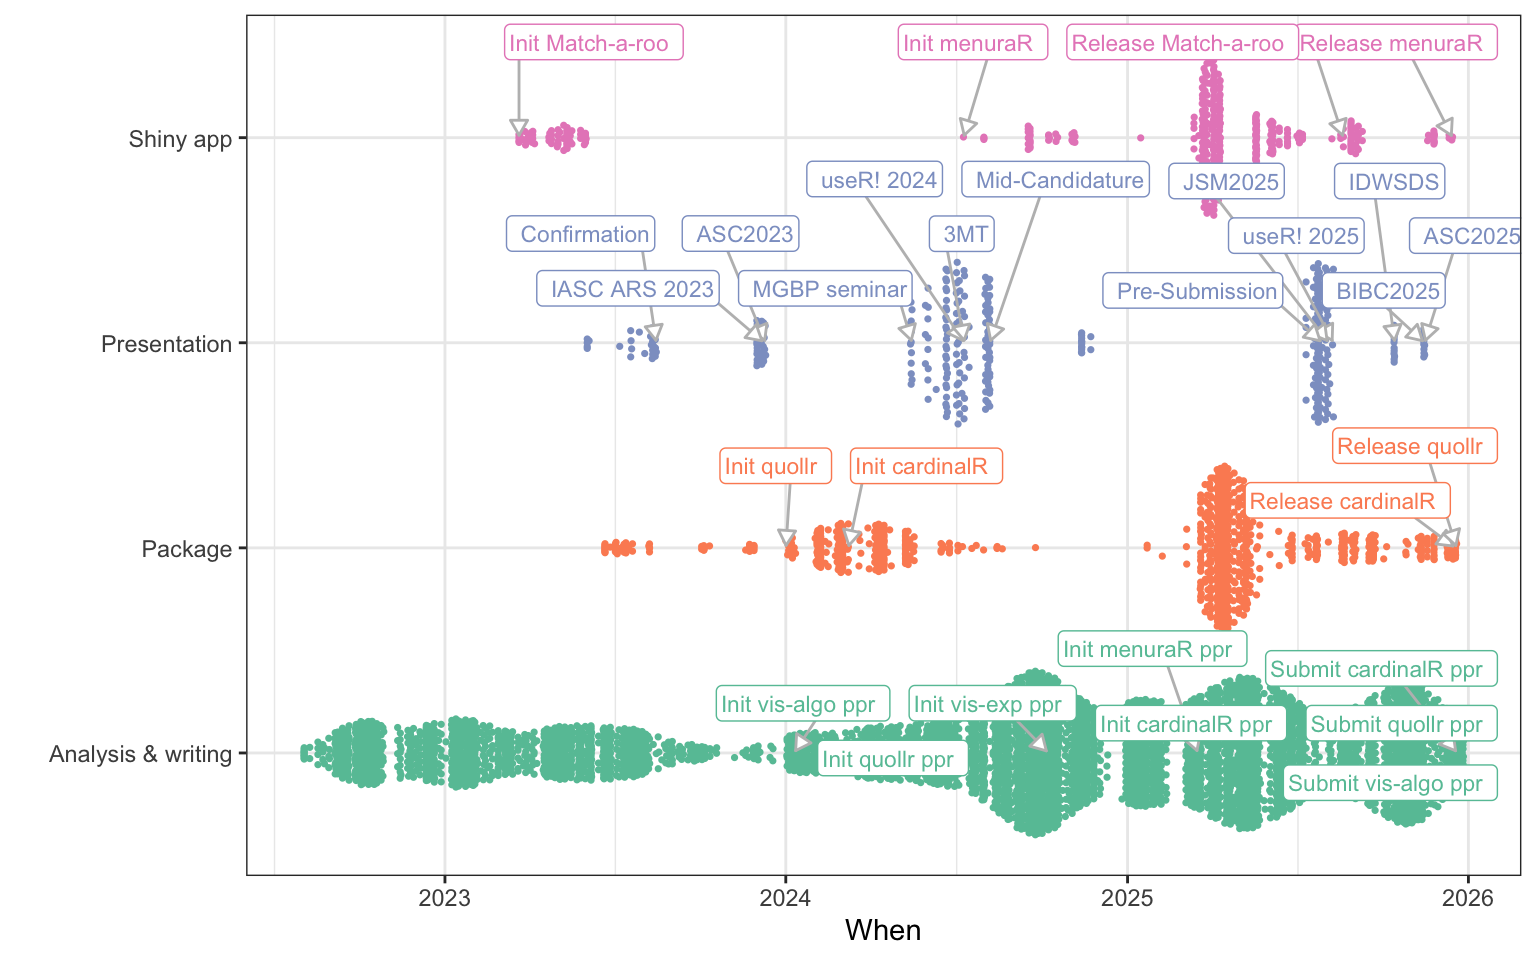
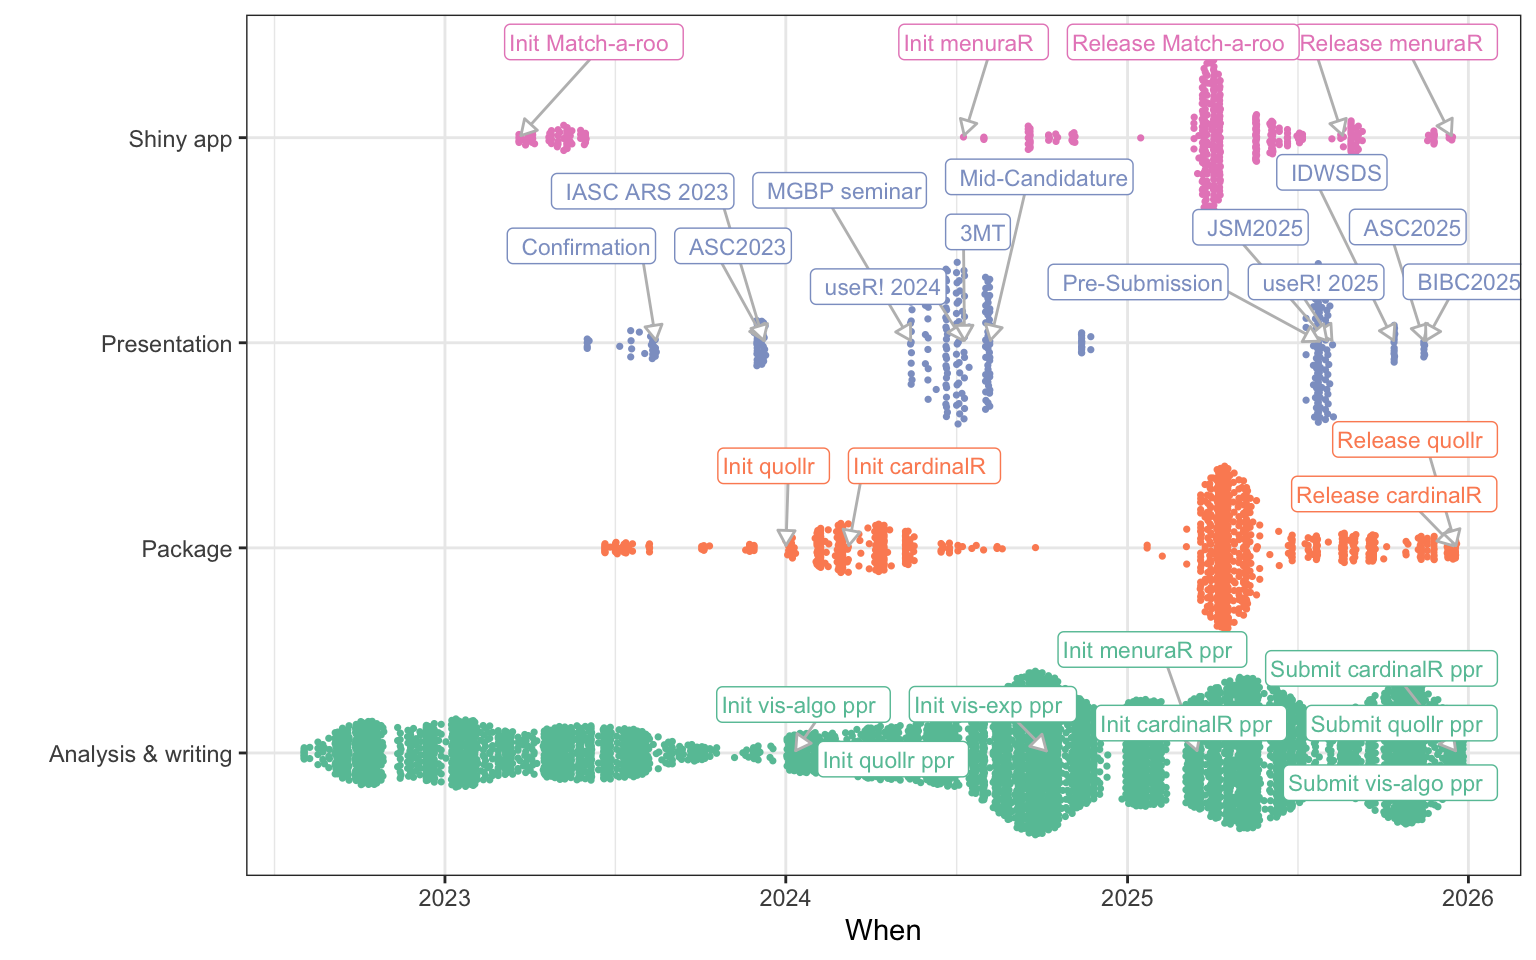
Updated "Research workflow and project organization"

diff --git a/_book/chapters/08-chap8.html b/_book/chapters/08-chap8.html
@@ -330,7 +330,7 @@ Figure&nbsp;8.1: Weekly commit activity for the <code>cardinalR</code> and <code
 <p>In addition, a number of R packages were essential in the development of this work, including <code>tidyverse</code> <span class="citation" data-cites="hadley2019">(<a href="../refs.html#ref-hadley2019" role="doc-biblioref">Wickham et al. 2019</a>)</span>, <code>ggbeeswarm</code> <span class="citation" data-cites="erik2023">(<a href="../refs.html#ref-erik2023" role="doc-biblioref">Clarke et al. 2023</a>)</span>, <code>ggrepel</code> <span class="citation" data-cites="kamil2024">(<a href="../refs.html#ref-kamil2024" role="doc-biblioref">Slowikowski 2024</a>)</span>, <code>GGally</code> <span class="citation" data-cites="barret2025">(<a href="../refs.html#ref-barret2025" role="doc-biblioref">Schloerke et al. 2025</a>)</span>, <code>colorspace</code> <span class="citation" data-cites="achim2020">(<a href="../refs.html#ref-achim2020" role="doc-biblioref">Zeileis et al. 2020</a>)</span>, <code>scales</code> <span class="citation" data-cites="hadley2025">(<a href="../refs.html#ref-hadley2025" role="doc-biblioref">Wickham et al. 2025</a>)</span>, <code>patchwork</code> <span class="citation" data-cites="thomas2024">(<a href="../refs.html#ref-thomas2024" role="doc-biblioref">Pedersen 2024</a>)</span>, <code>plotly</code> <span class="citation" data-cites="chapman2020">(<a href="../refs.html#ref-chapman2020" role="doc-biblioref">Sievert 2020</a>)</span>, <code>crosstalk</code> <span class="citation" data-cites="joe2025">(<a href="../refs.html#ref-joe2025" role="doc-biblioref">Cheng and Sievert 2025</a>)</span>, <code>htmltools</code> <span class="citation" data-cites="joe2024">(<a href="../refs.html#ref-joe2024" role="doc-biblioref">Cheng et al. 2024</a>)</span>, <code>quollr</code> <span class="citation" data-cites="jayani2025a">(<a href="../refs.html#ref-jayani2025a" role="doc-biblioref">Gamage et al. 2025a</a>)</span>, <code>cardinalR</code> <span class="citation" data-cites="jayani2025b">(<a href="../refs.html#ref-jayani2025b" role="doc-biblioref">Gamage et al. 2025b</a>)</span>, <code>detourr</code> <span class="citation" data-cites="casper2025">(<a href="../refs.html#ref-casper2025" role="doc-biblioref">Hart and Wang 2025</a>)</span>, <code>geozoo</code> <span class="citation" data-cites="barret2016">(<a href="../refs.html#ref-barret2016" role="doc-biblioref">Schloerke 2016</a>)</span>, <code>knitr</code> <span class="citation" data-cites="yihui2015">(<a href="../refs.html#ref-yihui2015" role="doc-biblioref">Xie 2015</a>)</span>, <code>kableExtra</code> <span class="citation" data-cites="hao2024">(<a href="../refs.html#ref-hao2024" role="doc-biblioref">Zhu 2024</a>)</span>, <code>lme4</code> <span class="citation" data-cites="douglas2015">(<a href="../refs.html#ref-douglas2015" role="doc-biblioref">Bates et al. 2015</a>)</span>, <code>broom.mixed</code> <span class="citation" data-cites="ben2024">(<a href="../refs.html#ref-ben2024" role="doc-biblioref">Bolker and Robinson 2024</a>)</span>, <code>emmeans</code> <span class="citation" data-cites="russell2025">(<a href="../refs.html#ref-russell2025" role="doc-biblioref">Lenth 2025</a>)</span>, <code>mclust</code> <span class="citation" data-cites="scrucca2023">(<a href="../refs.html#ref-scrucca2023" role="doc-biblioref">Scrucca et al. 2023</a>)</span>, <code>fpc</code> <span class="citation" data-cites="christian2024">(<a href="../refs.html#ref-christian2024" role="doc-biblioref">Hennig 2024</a>)</span>, <code>binom</code> <span class="citation" data-cites="sundar2022">(<a href="../refs.html#ref-sundar2022" role="doc-biblioref">Dorai-Raj 2022</a>)</span>, <code>conflicted</code> <span class="citation" data-cites="hadley2023">(<a href="../refs.html#ref-hadley2023" role="doc-biblioref">Wickham 2023</a>)</span>, <code>ggforce</code> <span class="citation" data-cites="thomas2025">(<a href="../refs.html#ref-thomas2025" role="doc-biblioref">Pedersen 2025</a>)</span>, <code>here</code> <span class="citation" data-cites="kirill2025">(<a href="../refs.html#ref-kirill2025" role="doc-biblioref">Müller 2025</a>)</span>, <code>grid</code> <span class="citation" data-cites="core2025">(<a href="../refs.html#ref-core2025" role="doc-biblioref">R Core Team 2025</a>)</span>, <code>gridExtra</code> <span class="citation" data-cites="baptiste2017">(<a href="../refs.html#ref-baptiste2017" role="doc-biblioref">Auguie 2017</a>)</span>, and <code>png</code> <span class="citation" data-cites="simon2022">(<a href="../refs.html#ref-simon2022" role="doc-biblioref">Urbanek 2022</a>)</span>.</p>
 </section><section id="research-workflow-and-project-organization" class="level2" data-number="8.5"><h2 data-number="8.5" class="anchored" data-anchor-id="research-workflow-and-project-organization">
 <span class="header-section-number">8.5</span> Research workflow and project organization</h2>
-<p>Presentations, package development, and writing are the three primary types of activities that shape this thesis. I have developed a habit of using Git and GitHub to track and synchronize my academic work since I started the PhD program. All commits are grouped by the activity types, with annotations of important milestones, shown in <a href="#fig-task-commit" class="quarto-xref">Figure&nbsp;<span>8.2</span></a>. It has been a fruitful program.</p>
+<p>Presentations, package development, and writing are the three primary types of activities that shape this thesis. Figure <a href="#fig-task-commit" class="quarto-xref">Figure&nbsp;<span>8.2</span></a> summarizes my GitHub commits documenting these activities since the start of my PhD, with commits grouped by activity type and annotated with important milestones. It has been a fruitful program.</p>
 <!--scripts/git_commits.R-->
 <div class="cell">
 <div class="cell-output-display">

diff --git a/chapters/08-chap8.html.md b/chapters/08-chap8.html.md
@@ -39,7 +39,7 @@ In addition, a number of R packages were essential in the development of this wo
 
 ## Research workflow and project organization
 
-Presentations, package development, and writing are the three primary types of activities that shape this thesis. I have developed a habit of using Git and GitHub to track and synchronize my academic work since I started the PhD program. All commits are grouped by the activity types, with annotations of important milestones, shown in @fig-task-commit. It has been a fruitful program.
+Presentations, package development, and writing are the three primary types of activities that shape this thesis. Figure @fig-task-commit summarizes my GitHub commits documenting these activities since the start of my PhD, with commits grouped by activity type and annotated with important milestones. It has been a fruitful program.
 
 <!--scripts/git_commits.R-->
 
